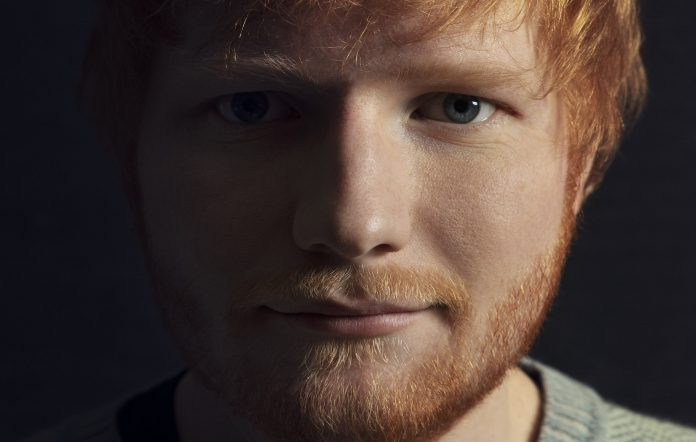
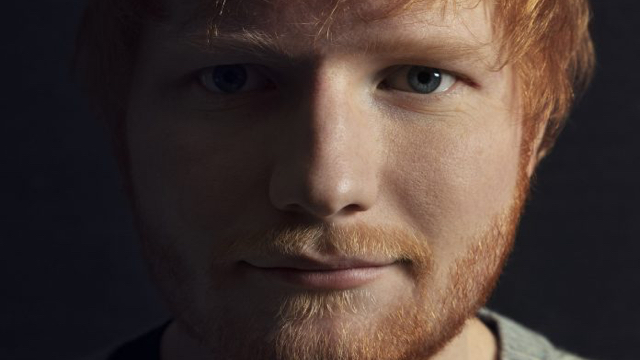
cropped pictures, and adjusted layout on index page

diff --git a/index.html b/index.html
@@ -9,9 +9,9 @@
     <link rel="stylesheet" href="https://cdnjs.cloudflare.com/ajax/libs/font-awesome/5.15.2/css/all.min.css">
     <link rel="stylesheet" href="assets/css/style.css">
     <!-- the below script is for the bootstrap carousel pictures at bottom of page -->
-  <script src="https://ajax.googleapis.com/ajax/libs/jquery/3.5.1/jquery.min.js"></script>
-  <script src="https://cdnjs.cloudflare.com/ajax/libs/popper.js/1.16.0/umd/popper.min.js"></script>
-  <script src="https://maxcdn.bootstrapcdn.com/bootstrap/4.5.2/js/bootstrap.min.js"></script>
+    <script src="https://ajax.googleapis.com/ajax/libs/jquery/3.5.1/jquery.min.js"></script>
+    <script src="https://cdnjs.cloudflare.com/ajax/libs/popper.js/1.16.0/umd/popper.min.js"></script>
+    <script src="https://maxcdn.bootstrapcdn.com/bootstrap/4.5.2/js/bootstrap.min.js"></script>
     <title>Ed Sheeran</title>
 </head>
 
@@ -33,88 +33,90 @@
             <!-- navigation bar starts here -->
             <div class="row navigation font-white font-navigation">
                 <!-- black space on left of navigation bar which hides when the screen gets smaller -->
-                <div class="col-md-2 d-none d-md-block bg-black">
+                <div class="col-lg-2 d-none d-lg-block bg-black">
                 </div>
                 <!-- navigation buttons with font-awesome icons, reduces from horizontal to vertical alignment when screen gets smaller -->
                 <!-- each hyperlink has a hover-effect through the main css stylesheet, that will glow orange when hovered over -->
-                <a href="index.html" class="col-md-2 col-sm-6 bg-black hover-glow">
+                <a href="index.html" class="col-lg-2 col-md-3 col-sm-6 col-12 bg-black hover-glow">
                     <i class="fas fa-home space"></i> Home Page
                 </a>
-                <a href="music.html" class="col-md-2 col-sm-6 bg-black hover-glow">
+                <a href="music.html" class="col-lg-2 col-md-3 col-sm-6 col-12 bg-black hover-glow">
                     <i class="fas fa-music space"></i> Music + Videos
                 </a>
                 <!-- external hyperlink that will open the official booking page, in a new tab -->
                 <a href="https://www.ticketmaster.co.uk/ed-sheeran-tickets/artist/1560779" target="_blank"
-                    class="col-md-2 col-sm-6 bg-black hover-glow">
+                    class="col-lg-2 col-md-3 col-sm-6 col-12 bg-black hover-glow">
                     <i class="fas fa-ticket-alt space"></i> Book Tickets
                 </a>
-                <a href="contact.html" class="col-md-2 col-sm-6 bg-black hover-glow">
+                <a href="contact.html" class="col-lg-2 col-md-3 col-sm-6 col-12 bg-black hover-glow">
                     <i class="fas fa-comments space"></i> Contact Us
                 </a>
                 <!-- black space on right of navigation bar which hides when the screen gets smaller -->
-                <div class="col-md-2 d-none d-md-block bg-black">
+                <div class="col-md-2 d-none d-lrg-block bg-black">
                 </div>
             </div>
         </div>
     </header>
     <section>
-        <!-- this part below contains the subheading text, and main body area -->
+        <!-- this part below contains the subheading text, main body area, and photo section -->
         <div class="container-fluid no-gutters">
             <div class="row">
-                <!-- subheading which is on left side of the page, on small screen will take whole page width -->
-                <div class="col-md-2 col-12 bg-grey">
-                    <h1 class="font-subheading font-black">Home Page</h1>
+                <!-- this is the left column that is divided into two rows -->
+                <div class="col-md-4 col-sm-6 col-12">
+                    <div class="row">
+                        <!-- this is the subheading of left column (top row) -->
+                        <div class="col bg-grey">
+                            <h1 class="font-subheading font-black">About Ed Sheeran</h1>
+                        </div>
+                    </div>
+                    <div class="row">
+                        <!-- this is the main body text of left column (bottom row) -->
+                        <div class="col bg-white">
+                            <p class="font-black font-text">Information about Ed Sheeran goes here</p>
+                        </div>
+                    </div>
                 </div>
-                <!-- main body which is on right side of the subheading, on small screen will take whole page width -->
-                <div class="col-md-10 col-12 bg-white">
-                    <p class="font-black font-text">text here</p>
+                <!-- this is the right column below, that contains photos.  On a small screen the photos take up full width of screen -->
+                <div id="photos" class="carousel slide col-md-8 col-sm-6 col-12" data-ride="carousel">
+                    <div class="carousel-inner">
+                        <!-- this is the first image, which is active -->
+                        <div class="carousel-item active">
+                            <img class="d-block w-100" src="assets/images/1.jpg" alt="1st Picture of Ed Sheeran">
+                        </div>
+                        <div class="carousel-item">
+                            <img class="d-block w-100" src="assets/images/2.jpg" alt="2nd Picture of Ed Sheeran">
+                        </div>
+                        <div class="carousel-item">
+                            <img class="d-block w-100" src="assets/images/3.jpg" alt="3rd Picture of Ed Sheeran">
+                        </div>
+                        <div class="carousel-item">
+                            <img class="d-block w-100" src="assets/images/4.jpg" alt="4th Picture of Ed Sheeran">
+                        </div>
+                        <div class="carousel-item">
+                            <img class="d-block w-100" src="assets/images/5.jpg" alt="5th Picture of Ed Sheeran">
+                        </div>
+                        <div class="carousel-item">
+                            <img class="d-block w-100" src="assets/images/6.jpg" alt="6th Picture of Ed Sheeran">
+                        </div>
+                        <div class="carousel-item">
+                            <img class="d-block w-100" src="assets/images/7.jpg" alt="7th Picture of Ed Sheeran">
+                        </div>
+                        <div class="carousel-item">
+                            <img class="d-block w-100" src="assets/images/8.jpg" alt="8th Picture of Ed Sheeran">
+                        </div>
+                        <!-- below are the back and forward arrow buttons, for changing the photos -->
+                    </div>
+                    <a class="carousel-control-prev" href="#photos" role="button" data-slide="prev">
+                        <span class="carousel-control-prev-icon" aria-hidden="true"></span>
+                        <span class="sr-only">Previous</span>
+                    </a>
+                    <a class="carousel-control-next" href="#photos" role="button" data-slide="next">
+                        <span class="carousel-control-next-icon" aria-hidden="true"></span>
+                        <span class="sr-only">Next</span>
+                    </a>
                 </div>
             </div>
         </div>
-        <!-- this part below contains photos.  On a large screen shows carousel effect, on smaller shows as -->
-  <div class="row">
-      <div class="col-md-8 photos">
-
-        <div id="PhotoControls" class="carousel slide" data-ride="carousel">
-  <div class="carousel-inner">
-    <div class="carousel-item active">
-      <img class="d-block w-100" src="assets/images/1.jpg" alt="First slide">
-    </div>
-    <div class="carousel-item">
-      <img class="d-block w-100" src="assets/images/2.jpg" alt="Second slide">
-    </div>
-    <div class="carousel-item">
-      <img class="d-block w-100" src="assets/images/3.jpg" alt="Third slide">
-    </div>
-    <div class="carousel-item">
-      <img class="d-block w-100" src="assets/images/4.jpg" alt="Third slide">
-    </div>
-    <div class="carousel-item">
-      <img class="d-block w-100" src="assets/images/5.jpg" alt="Third slide">
-    </div>
-    <div class="carousel-item">
-      <img class="d-block w-100" src="assets/images/6.jpg" alt="Third slide">
-    </div>
-    <div class="carousel-item">
-      <img class="d-block w-100" src="assets/images/7.jpg" alt="Third slide">
-    </div>
-    <div class="carousel-item">
-      <img class="d-block w-100" src="assets/images/8.jpg" alt="Third slide">
-    </div>
-  </div>
-  <a class="carousel-control-prev" href="#PhotoControls" role="button" data-slide="prev">
-    <span class="carousel-control-prev-icon" aria-hidden="true"></span>
-    <span class="sr-only">Previous</span>
-  </a>
-  <a class="carousel-control-next" href="#PhotoControls" role="button" data-slide="next">
-    <span class="carousel-control-next-icon" aria-hidden="true"></span>
-    <span class="sr-only">Next</span>
-  </a>
-</div>
-</div>
-</div>
-
-  
     </section>
     <footer>
         <!-- this part contains all the social media links, with a grey top and bottom border -->

diff --git a/assets/css/style.css b/assets/css/style.css
@@ -55,13 +55,13 @@
 .font-subheading {
     font-family: "Amatic SC", sans-serif;
     font-size: 42px;
-    text-align: right;
+    text-align: center;
 }
 
 .font-text {
     font-family: "Indie Flower", sans-serif;
     font-size: 24px;
-    text-align: left;
+    text-align: center;
 }
 
 /* font colours */
@@ -74,44 +74,25 @@
     color: black;
 }
 
-/* subtitle formatting */
+/* padding space top and bottom for all text and icons */
 
-h1 {
+h1, p, .navigation, .social-media {
     padding-top: 10px;
     padding-bottom: 10px;
 }
 
-/* main section formatting */
-
-p {
-    padding-top: 10px;
-    padding-bottom: 10px;
-}
-
-/* logo formatting */
+/* logo sizing and alignment */
 
 .logo {
     background: url("../images/logo.jpg");
     background-repeat: no-repeat;
     background-position: center;
     background-size: contain;
-    min-height: 100px;
+    min-height: 80px;
     background-color: black;
 }
 
-/* navigation formatting */
-
-.navigation {
-    padding-top: 10px;
-    padding-bottom: 10px;
-}
-
 /* icon formatting in social media section */
-
-.social-media {
-    padding-top: 10px;
-    padding-bottom: 10px;
-}
 
 .social-media a {
     width: 50px;
@@ -142,9 +123,9 @@ p {
     text-decoration: none;
 }
 
-/* photo carousel */
+/* photo carousel formatting */
 
-  .carousel-inner img {
-      width: 600px;
-      max-height: 600px;
+#photos {
+    padding-left: 0px;
+    padding-right: 0px;
 }

diff --git a/music.html b/music.html
@@ -7,7 +7,9 @@
     <!-- imported bootstrap 4, font-awesome 5, and individual stylesheet -->
     <link rel="stylesheet" href="https://stackpath.bootstrapcdn.com/bootstrap/4.5.2/css/bootstrap.min.css">
     <link rel="stylesheet" href="https://cdnjs.cloudflare.com/ajax/libs/font-awesome/5.15.2/css/all.min.css">
+    <link rel="stylesheet" href="https://cdn.plyr.io/3.6.3/plyr.css" />
     <link rel="stylesheet" href="assets/css/style.css">
+    <script src="https://cdn.plyr.io/3.6.3/plyr.js"></script>
     <title>Ed Sheeran</title>
 </head>
 
@@ -82,6 +84,12 @@
                                     Your browser does not support playing MP3s on this website
                                 </audio>
                             </div>
+                        </div>
+                        <div class="row">
+                            <audio class="col-12" id="player" controls>
+                                <source src="assets/music/a-team.mp3" type="audio/mp3" />
+                                <source src="assets/music/lego-house.mp3" type="audio/ogg" />
+                            </audio>
                         </div>
                     </div>
                     <p class="font-black font-text">text here</p>
